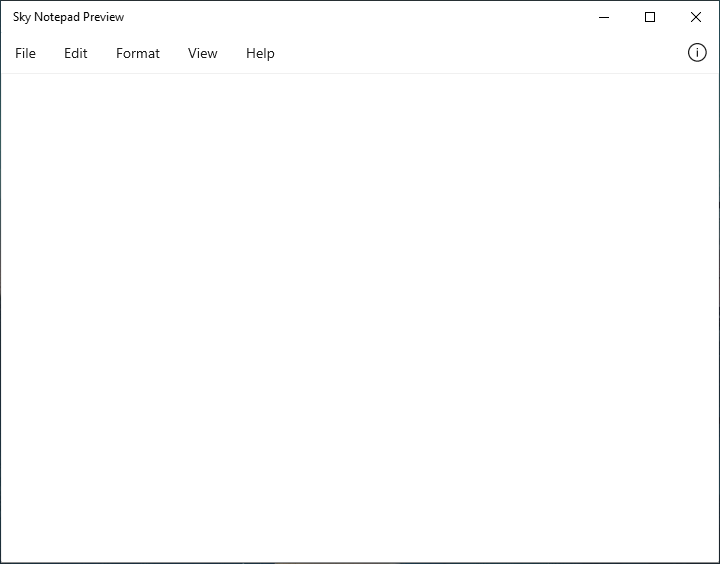
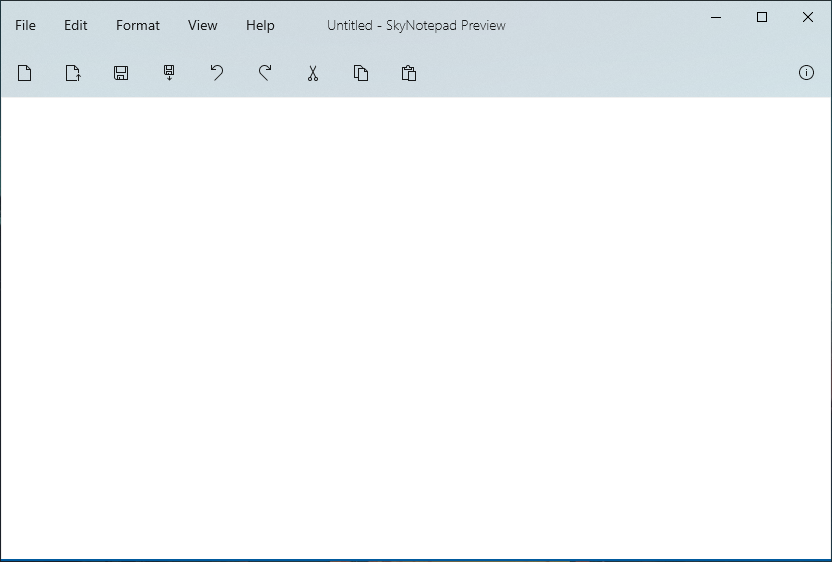
Update README

Changed region(s): [[0.0, 0.0, 1.0, 0.1815], [0.0, 0.968, 1.0, 1.0]]

diff --git a/README.md b/README.md
@@ -2,7 +2,7 @@
 <a href="https://github.com/AlperAkca79/SkyNotepad/">
     <img height="440" width="*" src="res/repo-preview-image-sky-notepad.png">
 </a>
-<a href="https://github.com/AlperAkca79/SkyNotepad/releases/tag/0.7.4.0">
+<a href="https://github.com/AlperAkca79/SkyNotepad/releases/tag/0.8.3.0">
     <img src="res/badge-github.png" height="85" width="250">
 </a>
 <a href="docs/404.md">
@@ -14,9 +14,9 @@ Sky Notepad is Simple, Modern, Free and Open Source **Text Editor** for Windows.
 
 # About
 - Developer: [AlperAkca79](https://github.com/AlperAkca79)
-- Version: Preview v0.7.4.0
+- Version: Preview v0.8.3.0
 - First Build Date: Friday, February 10, 2023
-- Last Update: Tuesday, February 21, 2023 10:56 PM (UTC +03:00)
+- Last Update: Thursday, February 23, 2023 10:38 PM (UTC +03:00)
 - License: [MIT License](https://github.com/AlperAkca79/SkyNotepad#License)
 - Platform Architecture: x86, x64
 - Supported OS(s): Windows 10/11
@@ -26,11 +26,7 @@ Sky Notepad is Simple, Modern, Free and Open Source **Text Editor** for Windows.
 # Screenshots
 ![](res/new-ui.png "Main UI")
 
-![](res/search-engine-yandex-support.png "Search in Web")
-
-![](res/new-full-screen-mode.png "Full Screen")
-
-![](res/about-page.png "About")
+![](res/about-sky-notepad.png "About")
 
 # Features
 - Word Wrapping
@@ -67,7 +63,7 @@ Sky Notepad is Simple, Modern, Free and Open Source **Text Editor** for Windows.
 See the changelog for all versions [here](docs/changelog.md).
 
 # How to Download?
-- Download **.cer** and **.msixbundle** files from [here](https://github.com/AlperAkca79/SkyNotepad/releases/tag/0.7.4.0).
+- Download **.cer** and **.msixbundle** files from [here](https://github.com/AlperAkca79/SkyNotepad/releases/tag/0.8.3.0).
 - Double click to open **.cer** file.
 - Click **"Install Certificate..."**.
 - Select **"Local Machine"** and click **"Next"**.

diff --git a/SECURITY.md b/SECURITY.md
@@ -10,7 +10,8 @@
 | Preview v0.6.0.0   | :x:                |
 | Preview v0.6.2.0   | :x:                |
 | Preview v0.7.0.0   | :x:                |
-| Preview v0.7.4.0   | :while_check_mark: |
+| Preview v0.7.4.0   | :x:                |
+| Preview v0.8.3.0   | :while_check_mark: |
 
 ## Reporting a Vulnerability
 If you find a vulnerability in the **Sky Notepad** project, create a new issue titled "Vulnerability" and describe the security vulnerability in detail.

diff --git a/docs/CHANGELOG.md b/docs/CHANGELOG.md
@@ -47,3 +47,11 @@ First version of Sky Notepad.
 - Changed Application Icon for Preview.
 - Added new "preview" icons.
 - Updated About page contents.
+
+***
+
+### Version Preview v0.8.3.0
+- Added App Command Bar.
+- Updated Menu Bar UI.
+- Added file name in title.
+- Added acrylic to background of menu bar and app command bar.
